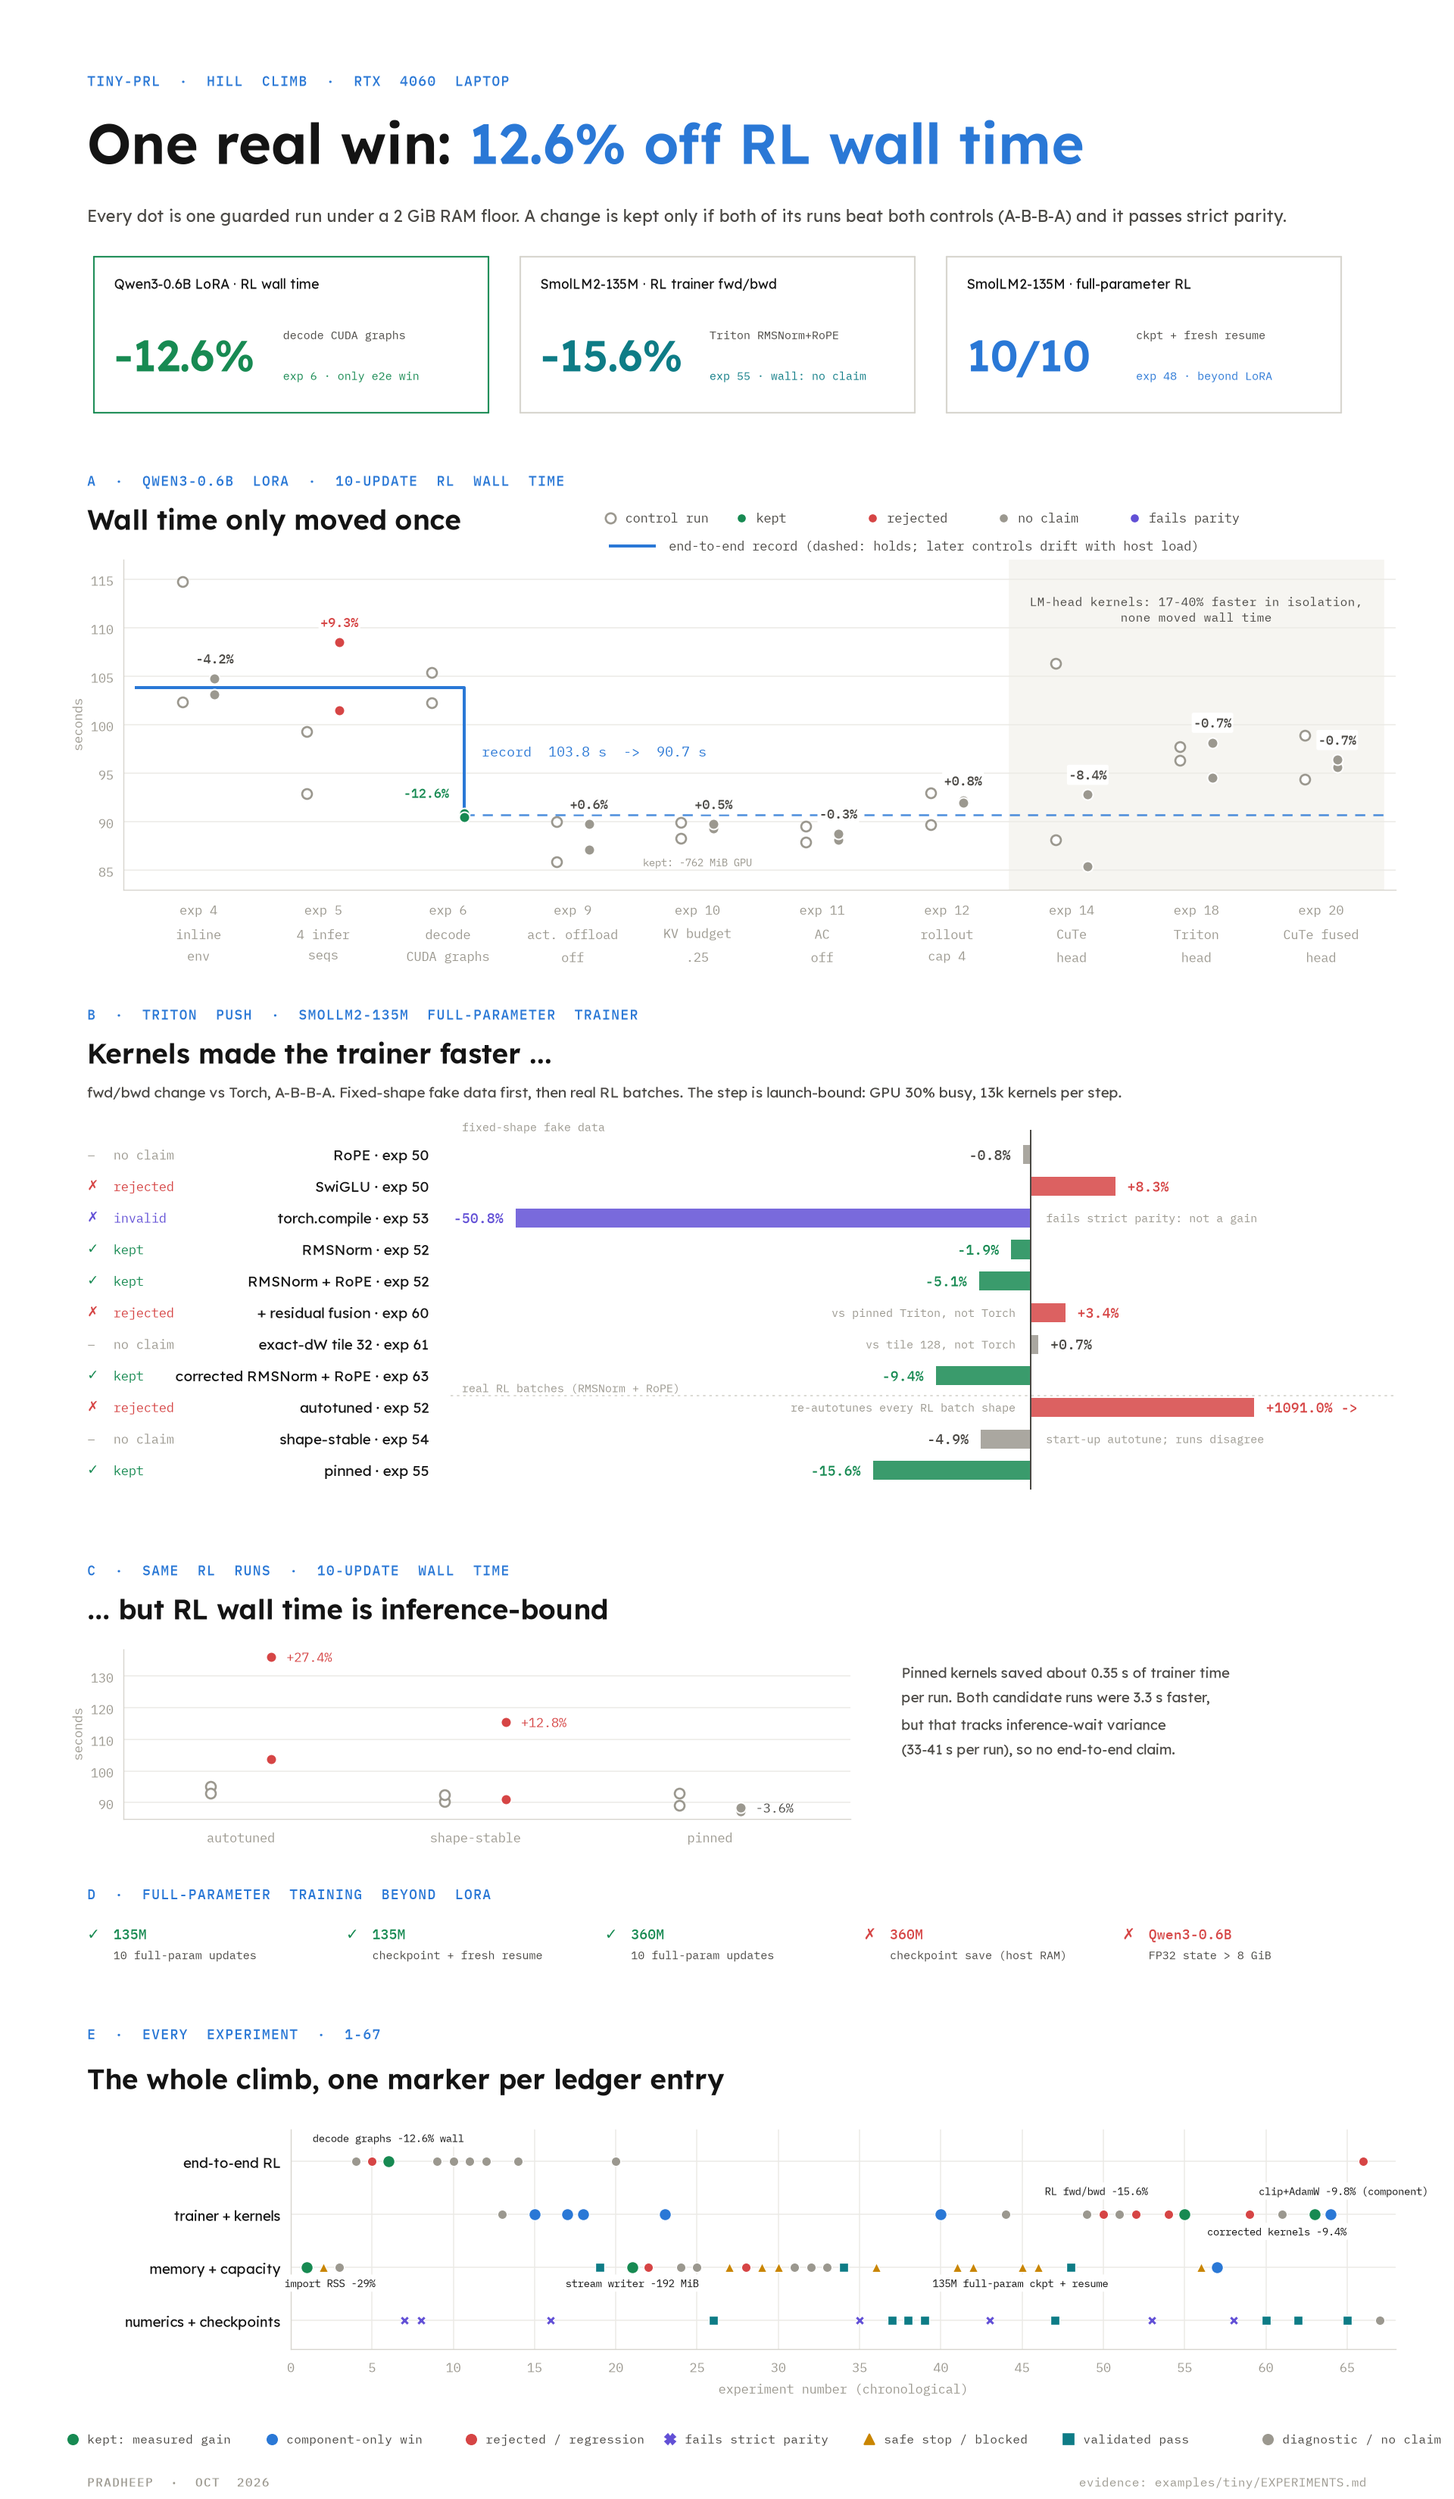
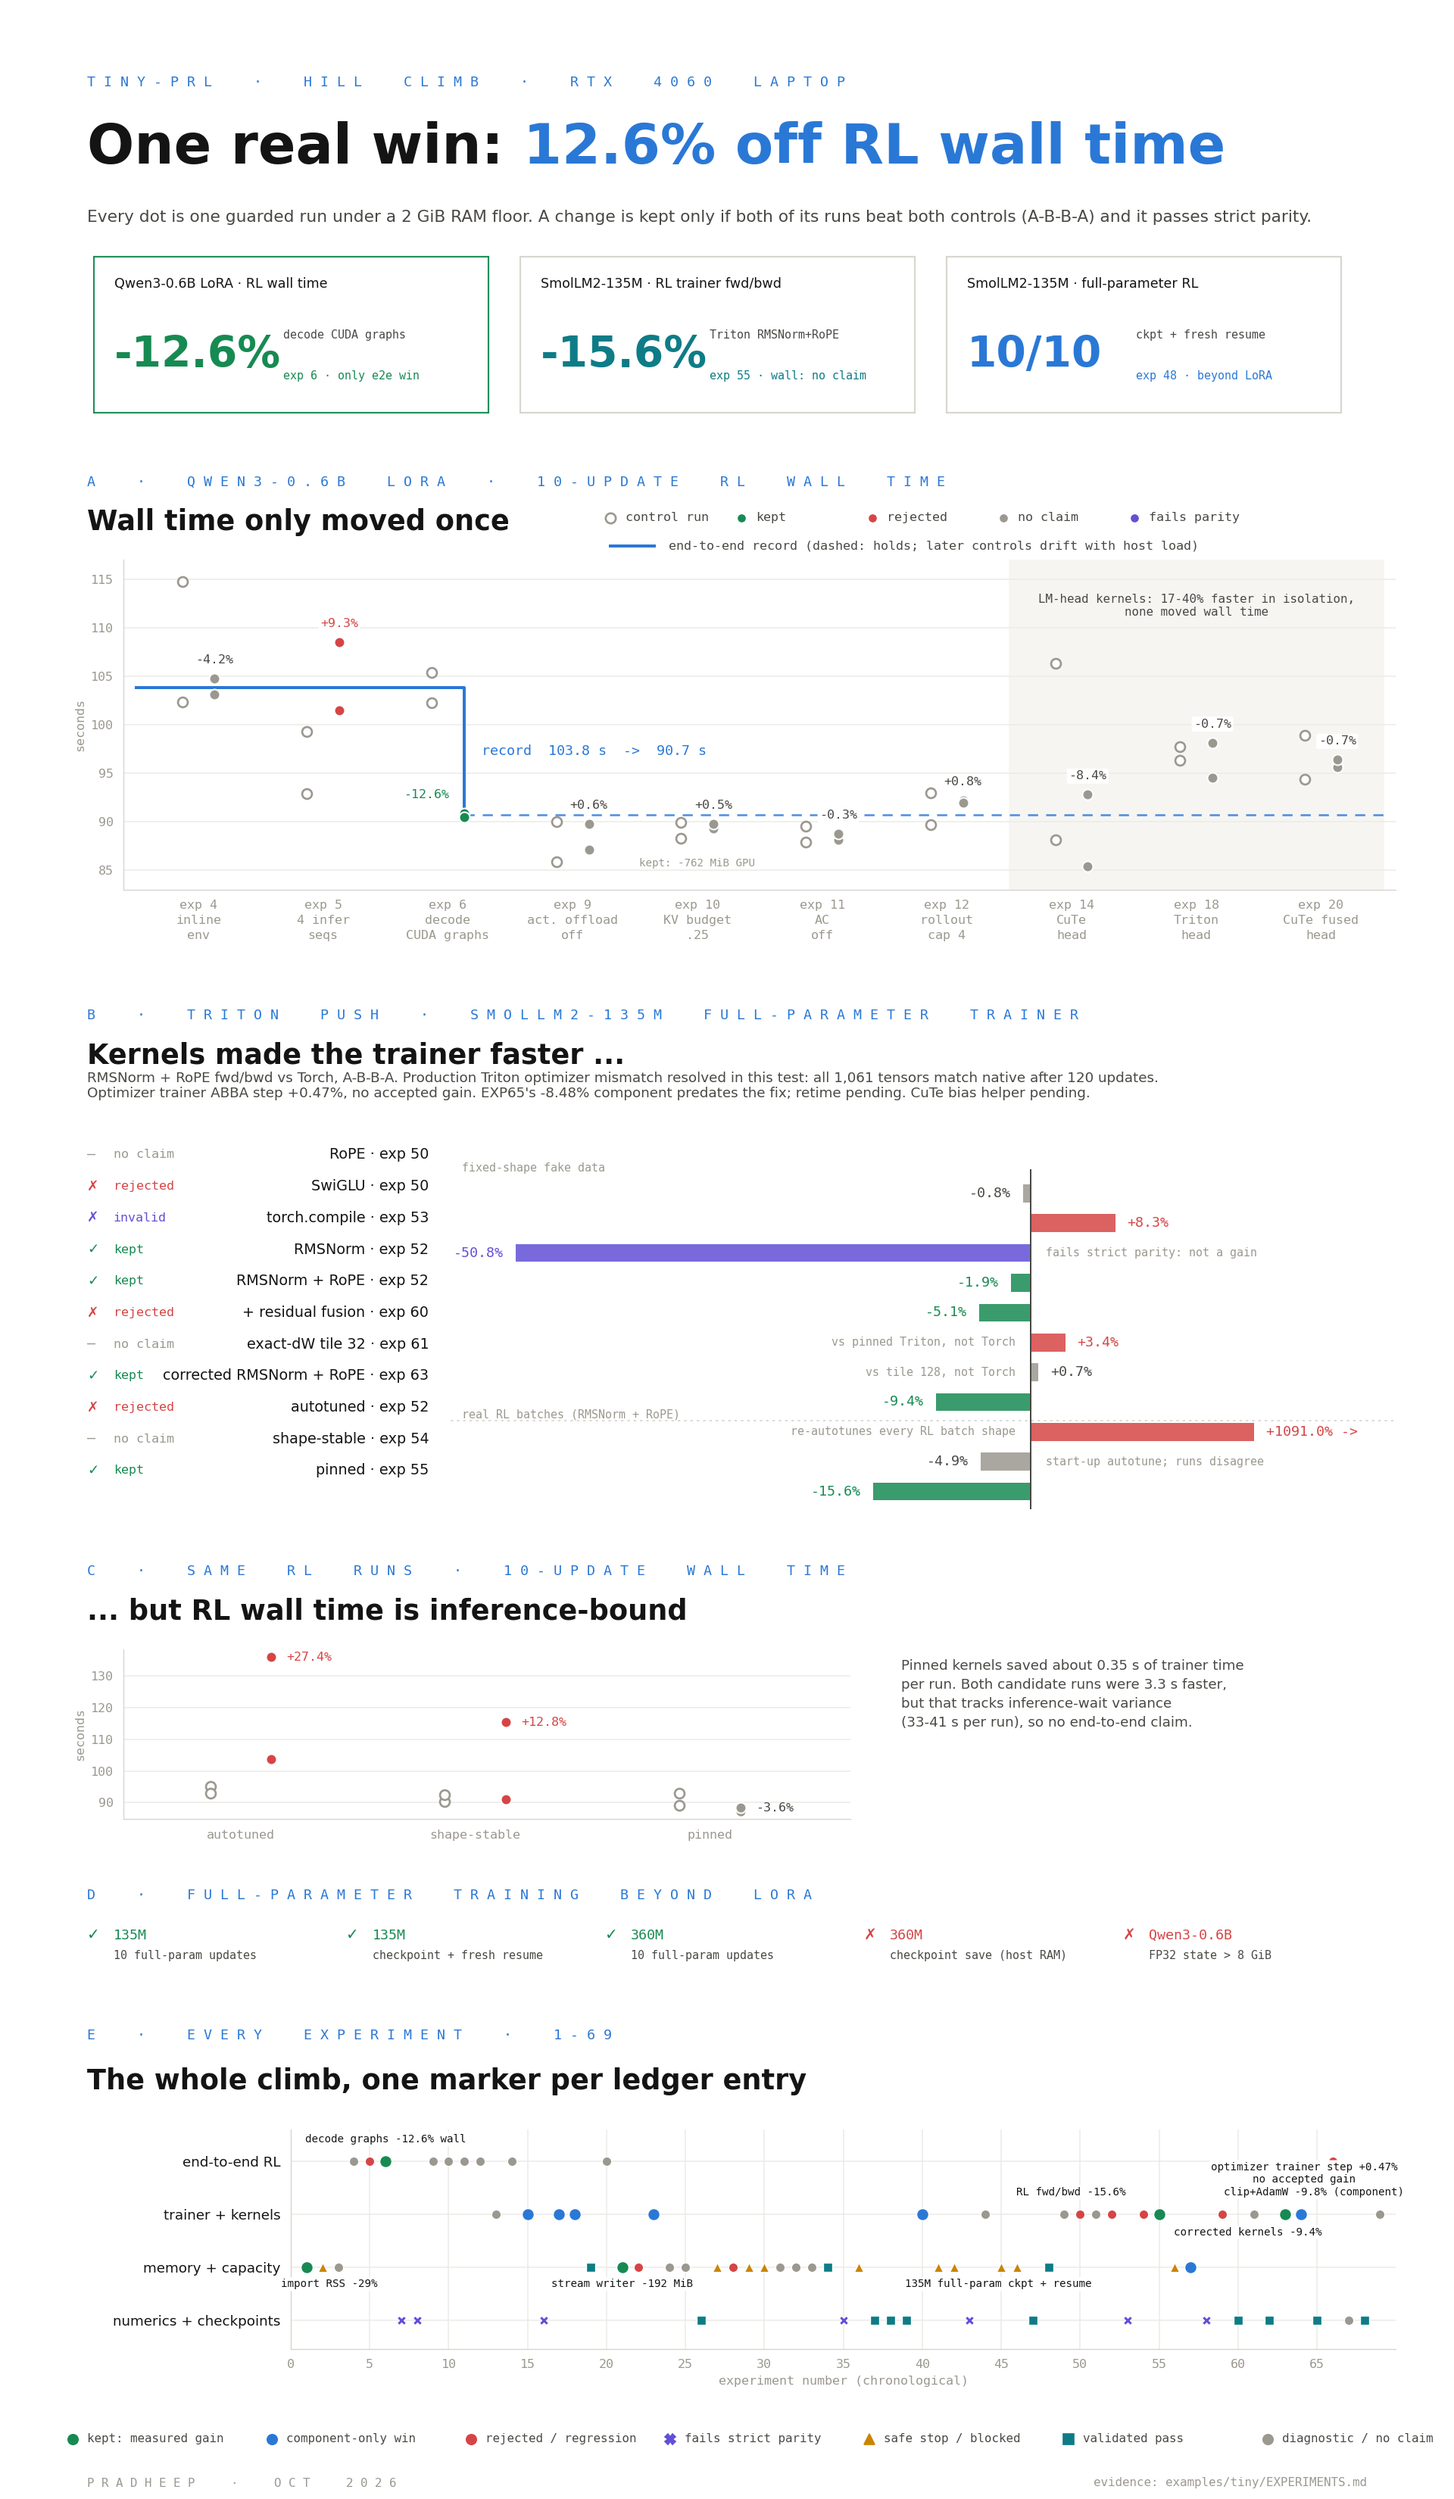
Update hillclimb with optimizer parity and trainer timing

diff --git a/tools/plot_tiny_hillclimb.py b/tools/plot_tiny_hillclimb.py
@@ -163,6 +163,8 @@ EXPERIMENTS = {
     65: (NUM, "validated"),
     66: (E2E, "rejected"),
     67: (NUM, "none"),
+    68: (NUM, "validated"),
+    69: (TRAIN, "none"),
 }
 # Callout text with (dx, dy) offsets in points, staggered so neighbours do not collide.
 CALLOUTS = {
@@ -173,6 +175,7 @@ CALLOUTS = {
     55: ("RL fwd/bwd -15.6%", (-70, 15)),
     63: ("corrected kernels -9.4%", (-30, -17)),
     64: ("clip+AdamW -9.8% (component)", (10, 15)),
+    69: ("optimizer trainer step +0.47%\nno accepted gain", (-60, 25)),
 }
 
 MILESTONES = [
@@ -504,12 +507,14 @@ def main() -> None:
     fig.text(
         0.06,
         0.451,
-        "fwd/bwd change vs Torch, A-B-B-A. Fixed-shape fake data first, then real RL batches. "
-        "The step is launch-bound: GPU 30% busy, 13k kernels per step.",
-        fontsize=11.5,
+        "RMSNorm + RoPE fwd/bwd vs Torch, A-B-B-A. Production Triton optimizer mismatch resolved in this test: "
+        "all 1,061 tensors match native after 120 updates.\n"
+        "Optimizer trainer ABBA step +0.47%, no accepted gain. EXP65's -8.48% component predates the fix; retime pending. CuTe bias helper pending.",
+        fontsize=11,
         color=INK_2,
+        linespacing=1.2,
     )
-    ax = fig.add_axes([0.31, 0.255, 0.65, 0.18])
+    ax = fig.add_axes([0.31, 0.245, 0.65, 0.17])
     ax.set_facecolor(BG)
     ax.axis("off")
     clip = 22
